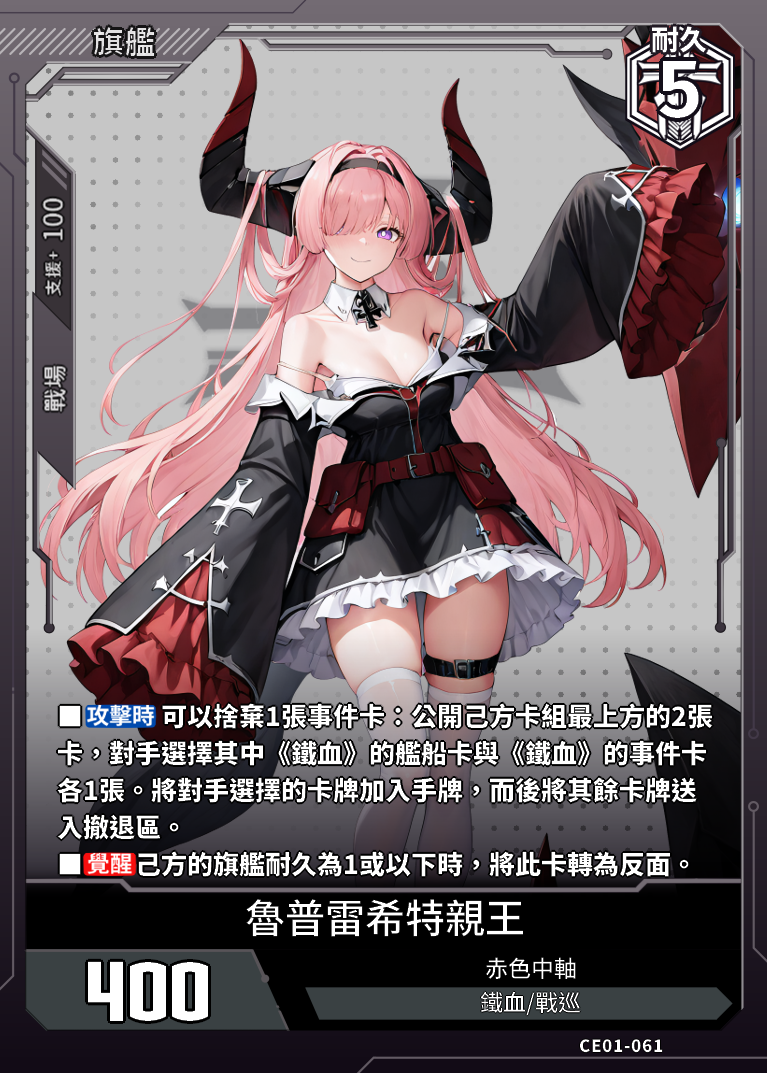
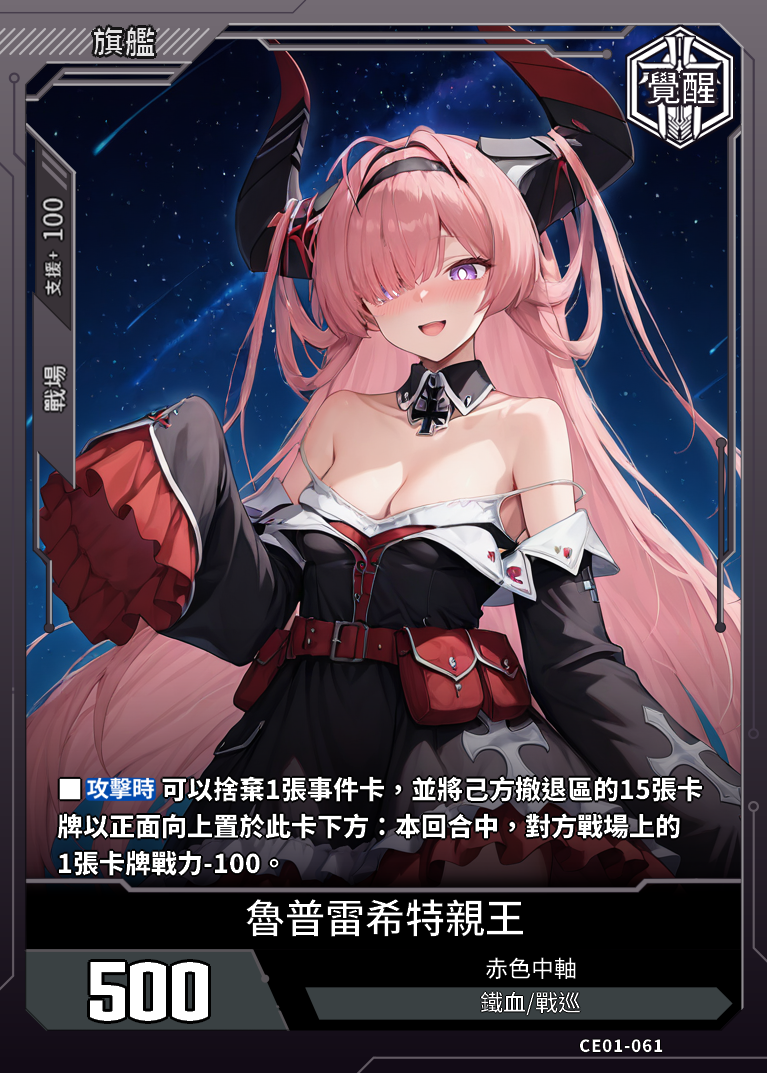
修正魯普雷希特親王覺醒效果

diff --git a/data.js b/data.js
@@ -23063,7 +23063,7 @@ const cards = [
             "支援範圍": "戰場",
             "支援值": "100"
         },
-        "card_effect": "■【攻擊時】可以捨棄1張手牌，並將己方撤退區的15張卡牌以正面向上置於此卡下方：本回合中，對方戰場上的1張卡牌戰力-100。",
+        "card_effect": "■【攻擊時】可以捨棄1張事件卡，並將己方撤退區的15張卡牌以正面向上置於此卡下方：本回合中，對方戰場上的1張卡牌戰力-100。",
         "acquisition_method": "CE01"
     },
     {
